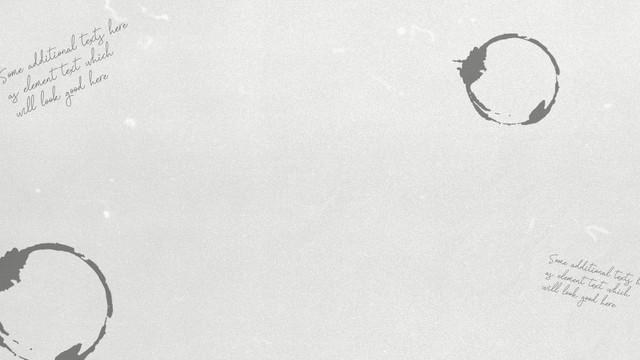
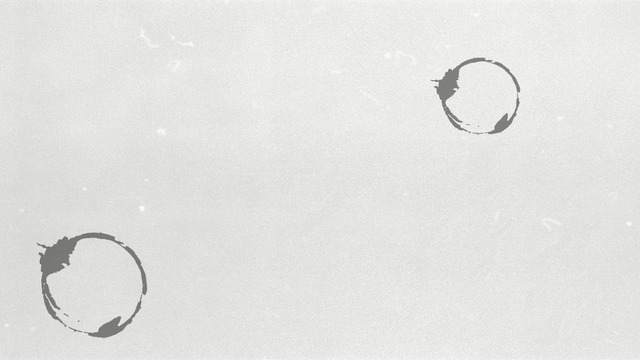
Remove additional texts in vintage animations

diff --git a/BACKEND/scripts/build-vintage-assets.py b/BACKEND/scripts/build-vintage-assets.py
@@ -25,13 +25,6 @@ below=Image.new('RGBA',(W,H))
 for scale,rotation,cx,cy in [(.519,17.769,.139257,.773614),(.3888586,0,.744032,.25985)]:
     im=scaled('Stamp.png',scale);im.putalpha(im.getchannel('A').point(lambda v:round(v*.5)))
     centered(below,im.rotate(-rotation,resample=Image.Resampling.BICUBIC,expand=True),cx*W,cy*H)
-text='Some additional texts here\nas element text which\nwill look good here'
-for size,rotation,cx,cy in [(62,-23.2,.1763926,.24607),(47,14.8,.8607427,.748024)]:
-    font=ImageFont.truetype(str(A/'handwriting.ttf'),size)
-    ink=Image.new('RGBA',(800,350));draw=ImageDraw.Draw(ink)
-    draw.multiline_text((12,8),text,font=font,fill=(40,40,40,170),spacing=-8)
-    ink=ink.crop(ink.getbbox()).rotate(-rotation,resample=Image.Resampling.BICUBIC,expand=True)
-    centered(below,ink,cx*W,cy*H)
 below.save(A/'decorations.png')
 # Fixed, repeatable torn print matte. Adobe Roughen Edges is reconstructed here.
 w,h=1344,756;r=random.Random(72)
